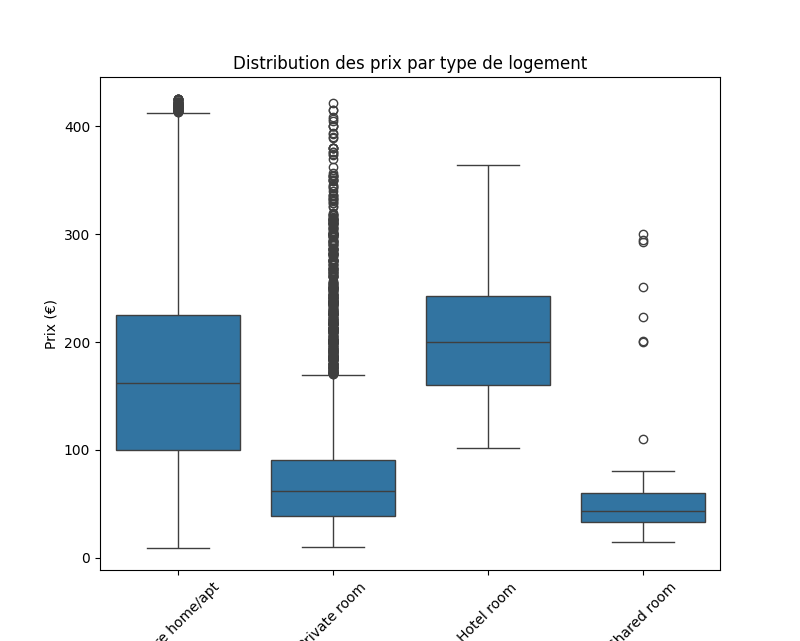
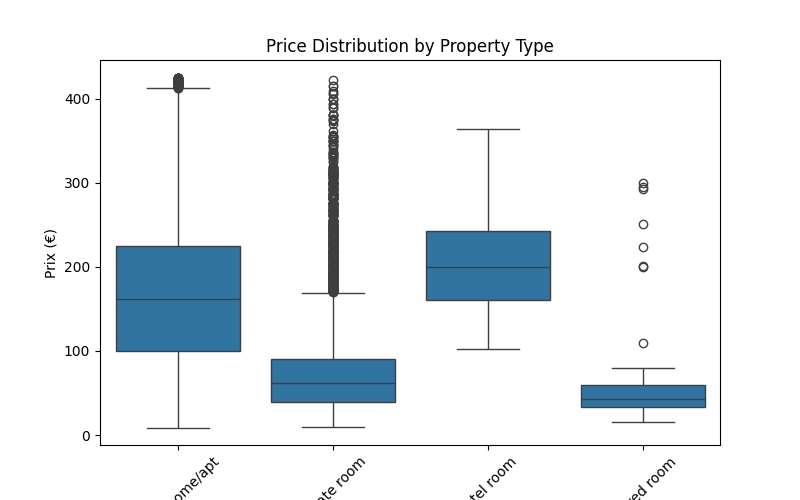
Update

diff --git a/notebook/airbnb_analysis.py b/notebook/airbnb_analysis.py
@@ -3,44 +3,43 @@ import numpy as np
 import matplotlib.pyplot as plt 
 import seaborn as sns
 
-#Chargement des données
+#Data Loading
 df = pd.read_csv("/Users/edaarcn/Documents/airbnb-barcelona-price-analysis/data/listings.csv")
 
-#print("Shape :", df.shape) #pour avoir les dimensions de la dataset : (19410, 18)
-#print("\nColonnes :")
-#print(df.columns.tolist()) #nom des colonnes
-#print(df.head())
-#print("Valeurs manquantes price :", df["price"].isna().sum()) #Valeurs manquantes price : 4134
-"""Colonnes : ['id', 'name', 'host_id', 'host_name', 
-'neighbourhood_group', 'neighbourhood', 'latitude', 
-'longitude', 'room_type', 'price', 'minimum_nights', 
-'number_of_reviews', 'last_review', 'reviews_per_month', 
-'calculated_host_listings_count', 'availability_365', 
-'number_of_reviews_ltm', 'license']"""
+print("Shape :", df.shape) #Dataset dimensions: (19410, 18)
+print("\nColonnes :")
+print(df.columns.tolist()) #Columns' name
+"""Columns : ['id', 'name', 'host_id', 'host_name', 'neighbourhood_group', 'neighbourhood', 'latitude', 
+'longitude', 'room_type', 'price', 'minimum_nights', 'number_of_reviews', 'last_review', 'reviews_per_month', 
+'calculated_host_listings_count', 'availability_365', 'number_of_reviews_ltm', 'license']"""
+print(df.head())
+print("Missing price values:", df["price"].isna().sum()) #Missing price values: 4134
 
-#Nettoyage des données 
-df = df.dropna(subset=["price"]) #supprime les lignes où les valeurs sont NaN dans les colonnes spécifiées
-#print("Shape après :", df.shape) #Shape après : (15276, 18)
+#Data Cleaning 
+df = df.dropna(subset=["price"]) #Remove rows where values are NaN in the price column
+print("Shape after:", df.shape) #Shape after: (15276, 18)
 
-#print(df["price"].describe())
-"""count    15276.000000
-mean       187.312713 > distribution asymétrique des données à droite, donc logements très chers
-std        363.967170 > écart-type
+print(df["price"].describe())
+"""
+count    15276.000000
+mean       187.312713 > Right-skewed distribution, indicating the presence of very high-priced listings
+std        363.967170 > standard deviation
 min          9.000000
 25%         70.000000
-50%        131.000000 > médiane
+50%        131.000000 > median
 75%        215.000000
 max      10000.000000"""
 
 q95 = df["price"].quantile(0.95)
-#print("95e percentile :", q95) #425 euros
+print("95e percentile:", q95) #425 euros
 
 df = df[df["price"] <= q95] 
-#print("Nouvelle shape :", df.shape) #Nouvelle shape : (14513, 18)
-#Les 5% des prix les plus élevés ont été exclus afin d'éviter que des valeurs extrêmes biaisent l'analyse.
+print("New shape:", df.shape) #New shape: (14513, 18)
+#The top 5% of the highest prices were excluded to prevent extreme values from biasing the analysis.
 
-#print(df["price"].describe())
-"""count    14513.000000
+print(df["price"].describe())
+"""
+count    14513.000000
 mean       142.282092
 std         90.651967
 min          9.000000
@@ -49,67 +48,37 @@ min          9.000000
 75%        200.000000
 max        425.000000"""
 
-#Analyse 
-#1. Le type de logement influence-t-il le prix ?
+#Analysis 
+#1. What is the impact of room type on price?
 
-moyenne1 = df.groupby("room_type")["price"].mean() 
+mean1 = df.groupby("room_type")["price"].mean() 
 median1 = df.groupby("room_type")["price"].median() 
-#on a regroupé les lignes par type de logement et on veut la moyenne du prix de chaque groupe
-#print("Moyenne :\n", moyenne1)
-#print("\nMedian :\n", median1)
-"""Moyenne :                            Median : 
- room_type
-Entire home/apt    171.651016           162.0 > différence faible, distribution stable
-Hotel room         208.595745           200.0 > pareil que entire home/apt
-Private room        80.476243           62.0  > moyenne bien au-dessus de médiane => quelques chambres privées plus chères
-Shared room         58.196078           43.0  > pareil que private room  """
+#Rows were grouped by room type, and the average price was calculated for each group.
+print("Mean:\n", mean1)
+print("\nMedian:\n", median1)
+"""
+Mean:                            Median: 
+room_type
+Entire home/apt    171.651016           162.0 > small difference, stable distribution
+Hotel room         208.595745           200.0 > same as entire home/apt
+Private room        80.476243           62.0  > mean significantly higher than the median (presence of a few higher-priced private rooms)
+Shared room         58.196078           43.0"""
 
-#Le type de logement influence le prix.
-#Ordre du plus cher au moins cher : Hotel room, Entire home/apt, Private room, Shared room
-#Médiane = montre le prix "typique" > 50% coûte + ou - cher que médiane
-
-"""plt.figure(figsize=(8,5))
+#Visualization
+plt.figure(figsize=(8,5))
 
 sns.boxplot(x="room_type", y="price", data=df)
 
-plt.title("Distribution des prix par type de logement")
+plt.title("Price Distribution by Property Type")
 plt.xlabel("Type de logement")
 plt.ylabel("Prix (€)")
 plt.xticks(rotation=45)
 
-plt.show()"""
-#Interprétation : 
-"""Les hôtels et logements entiers présentent les prix médians les plus élevés.
-Les chambres privées et partagées sont significativement moins chères.
-Les logements entiers affichent également une plus grande dispersion des prix, 
-traduisant une hétérogénéité importante de l’offre (du petit budget au très haut de gamme).
-A l'inverse, les hôtels ont une distribution plus resserrée,
-suggérant un positionnement tarifaire plus standardisé. 
+plt.show()
 
-Insights :
-Entire home/apt > Médiane élevée > Dispersion très large
-=> Marché très hétérogène (studio vs villa luxe) 
-=> donc le prix seul ne suffit pas : analyser quartier, nb avis, disponibilité, etc.
-Hotel room > Médiane élevée > Dispersion plus maîtrisée
-=> Pricing plus standardisé (grille tarifaire, suivent la concurrence)
-Private room > Médiane basse > Beaucoup d’outliers
-=> Segment majoritairement low budget mais présence d’offres premium
-Shared room > Le moins cher > Distribution resserrée
-=> Segment clairement économique"""
-
-"""README :
-L’analyse met en évidence une segmentation claire du marché.
-Les hôtels et les logements entiers présentent les prix médians les plus élevés.
-Toutefois, les logements entiers affichent une dispersion beaucoup plus importante, 
-traduisant une forte hétérogénéité de l’offre (du studio économique au logement haut de gamme).
-À l’inverse, les hôtels présentent une distribution plus resserrée, suggérant un positionnement 
-tarifaire plus standardisé.
-Les chambres privées et partagées constituent les segments les plus abordables, 
-bien que certaines chambres privées se positionnent sur un segment premium."""
-
-#2. Quels sont les quartiers les + ou - chers ? 
-#print(df.groupby("neighbourhood_group")["price"].median().sort_values(ascending=False))
-#médian car les prix restent asymétriques, la médiane représente mieux le "prix typique"
+#2. How do prices vary across neighborhoods? 
+print(df.groupby("neighbourhood_group")["price"].median().sort_values(ascending=False))
+#Median, as prices remain skewed; the median better represents the “typical” price.
 """
 Eixample               165.0
 Les Corts              146.0
@@ -117,12 +86,12 @@ Gràcia                 135.0
 Sant Martí             135.0
 Sarrià-Sant Gervasi    130.0
 Sants-Montjuïc         112.0
-Ciutat Vella            89.0 > centre historique mais peu cher, pourquoi ? Peut-être plus de chambres privées, à vérifier.
+Ciutat Vella            89.0 
 Sant Andreu             78.0
 Horta-Guinardó          74.0
 Nou Barris              64.0
 La localisation influence fortement le prix."""
-#print(df.groupby("neighbourhood_group")["room_type"].value_counts())
+print(df.groupby("neighbourhood_group")["room_type"].value_counts())
 """
 Ciutat Vella         Entire home/apt    2120
                      Private room       1192
@@ -157,11 +126,9 @@ Sants-Montjuïc       Entire home/apt     976
 Sarrià-Sant Gervasi  Entire home/apt     606
                      Private room        306
                      Shared room           7"""
-#Analyse du prix par quartier ET type de logement 
-"""print(
-    df.groupby(["neighbourhood_group", "room_type"])["price"]
-      .median()
-)"""
+
+#Cross-Analysis (Neighborhood x Room Type)
+print(df.groupby(["neighbourhood_group", "room_type"])["price"].median())
 """
 Ciutat Vella         Entire home/apt    100.5
                      Hotel room         243.0
@@ -196,23 +163,9 @@ Sants-Montjuïc       Entire home/apt    152.0
 Sarrià-Sant Gervasi  Entire home/apt    150.5
                      Private room        51.0
                      Shared room         22.0"""
-"""Eixample domine sur le segment Entire home/apt (198€ médiane).
-C’est un positionnement clairement premium.
-Ciutat Vella, malgré son attractivité touristique,
-semble proposer des logements entiers plus abordables.
-Plusieurs hypothèses :
-Logements plus petits (centre historique > surfaces réduites)
-Concurrence élevée > pression sur les prix
-Offre très dense > guerre des prix
-À type de logement équivalent, des écarts importants subsistent entre 
-quartiers, suggérant que d’autres facteurs non observés (surface, 
-standing, qualité du bien) influencent le prix.
-La localisation influence fortement le prix des logements Airbnb à Barcelone, avec des écarts médians importants entre quartiers.
-Toutefois, certains quartiers centraux comme Ciutat Vella affichent des prix médians inférieurs à des zones comme Eixample, suggérant que la centralité seule n’explique pas les différences observées.
-Même à type de logement équivalent, des écarts significatifs persistent entre quartiers, indiquant que d’autres facteurs non observés — tels que la surface, le standing ou la qualité du bien — jouent probablement un rôle déterminant."""
 
-#3. Le nombre d'avis influence-t-il le prix ? 
-#print(df["number_of_reviews"].describe())
+#3. Does the number of reviews influence pricing?
+print(df["number_of_reviews"].describe())
 """
 count    14513.000000
 mean        61.766279
@@ -222,11 +175,12 @@ min          0.000000
 50%          9.000000
 75%         69.000000
 max       1820.000000
-La distribution du nombre d’avis est fortement asymétrique : la majorité des logements ont moins de 10 avis, 
-tandis qu’une minorité concentre un volume très élevé d’avis.
+The distribution of the number of reviews is highly skewed: 
+the majority of listings have fewer than 10 reviews, while a small minority concentrate a very high volume of reviews.
 """
 
-"""plt.scatter(df["number_of_reviews"], df["price"]) #seaborn pour les visuels plus poussés
+#Visualization
+"""plt.scatter(df["number_of_reviews"], df["price"])
 plt.xscale("log")
 plt.title("Prix vs Nombre d'avis")
 plt.xlabel("Nombre d'avis")
@@ -237,6 +191,3 @@ print((df["number_of_reviews"] == 0).sum())
 
 print(df.groupby(df["number_of_reviews"] == 0)["price"].median())
 #False    140.0 et True      91.0
-"""Les logements sans avis affichent un prix médian significativement inférieur (91€) à ceux disposant d’au moins un avis (140€), suggérant une stratégie 
-de prix plus agressive pour attirer les premières réservations.
-Les avis semblent refléter davantage l’ancienneté ou la stratégie d’entrée que le positionnement premium."""
